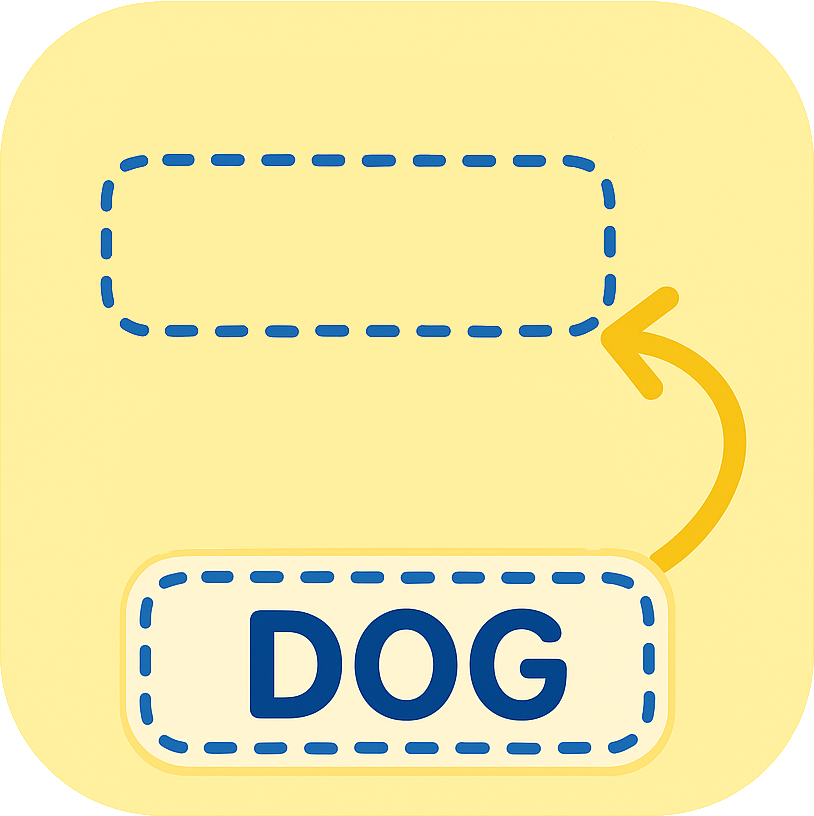
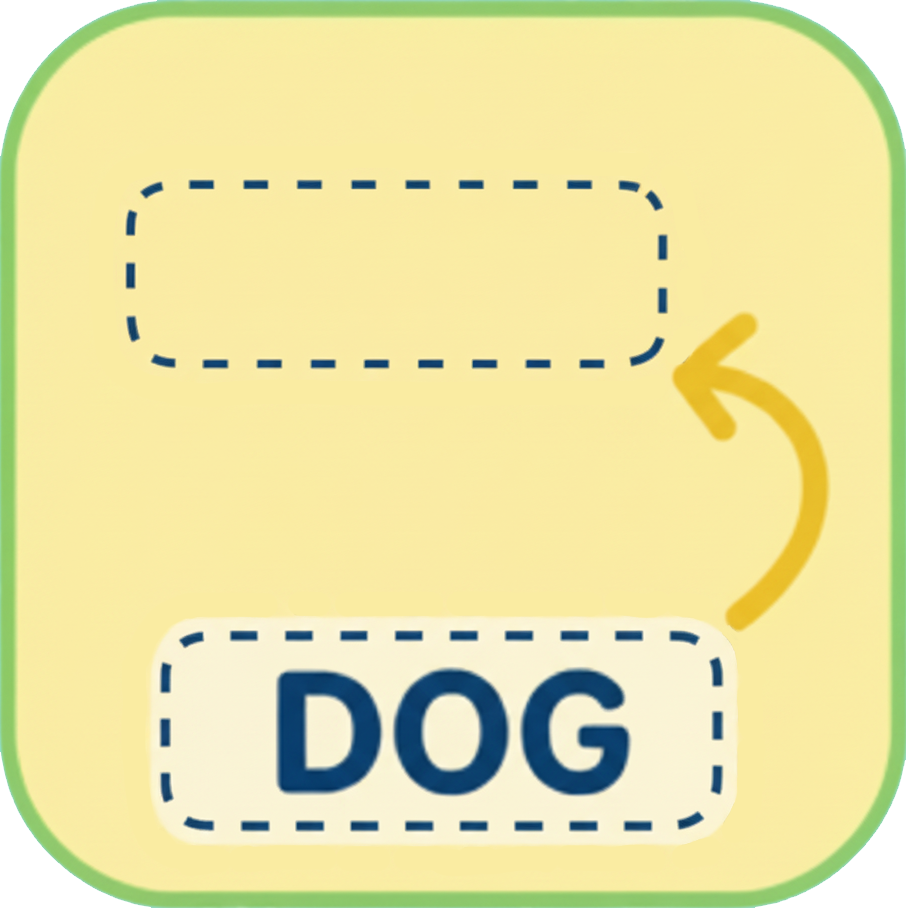
version 16 subida

Changed region(s): [[0.1229, 0.1838, 0.9214, 0.9498], [0.0, 0.0, 1.0, 1.0]]

diff --git a/boby/lib/ui/shared/score.dart b/boby/lib/ui/shared/score.dart
@@ -17,6 +17,23 @@ class Score extends StatelessWidget {
   });
 
 
+  getBadge(double correct, double wrong, bool isTablet, bool isLandscape) {
+    double average = (correct / (correct + wrong)) * 100;
+    String badge = "";
+    if (average >= 90) {
+      badge = "assets/dymond.png";
+    } else if (average >= 80) {
+      badge = "assets/gold.png";
+    } else if (average >= 50) {
+      badge = "assets/silver.png";
+    } else {
+      badge = "assets/bronze.png";
+    }
+    return Image.asset(badge, width: isTablet || isLandscape ? 40 : 30, height: isTablet || isLandscape ? 50 : 30);
+  
+  }
+
+
 
   String _getCorrectValue() {
     switch (game) {
@@ -60,14 +77,14 @@ class Score extends StatelessWidget {
     bool istablet = screenSize.width > Constants.tabletSize;  
 
     return GestureDetector(
-      onTap: () => _showRestoreDialog(context),
+      onTap: () => _showRestoreDialog(context, istablet, isLandscape),
       child: Container(
         width: screenSize.width * 0.8,
         margin: const EdgeInsets.all(8),
         padding: const EdgeInsets.all(8),
         decoration: BoxDecoration(
           color: Colors.white,
-          borderRadius: BorderRadius.circular(30),
+          borderRadius: BorderRadius.circular(15),
           boxShadow: [
             BoxShadow(
               color: Colors.black.withOpacity(0.1),
@@ -81,10 +98,16 @@ class Score extends StatelessWidget {
             mainAxisSize: MainAxisSize.min,
             mainAxisAlignment: MainAxisAlignment.center,
             children: [
+              getBadge(double.parse(_getCorrectValue()), double.parse(_getWrongValue()) , istablet, isLandscape),
+              const Spacer(),
               _buildScoreItem("Correct", _getCorrectValue(), MyColors.green, isLandscape, istablet),
               const SizedBox(width: 16),
               _buildScoreItem("Wrong", _getWrongValue(), MyColors.red, isLandscape, istablet),
               Text( appController.noShow.value, style: TextStyle(fontSize:1, ),),
+              const SizedBox(width: 16),
+              const Spacer(),
+              getBadge(double.parse(_getCorrectValue()), double.parse(_getWrongValue()), istablet, isLandscape),
+
             ],
           ),
         ),
@@ -115,7 +138,19 @@ class Score extends StatelessWidget {
     );
   }
 
-  void _showRestoreDialog(BuildContext context) {
+  void _showRestoreDialog(BuildContext context, bool istablet, bool isLandscape) {
+    double average = (double.parse(_getCorrectValue()) / (double.parse(_getCorrectValue()) + double.parse(_getWrongValue()))) * 100;
+String level = "";
+    if (average >= 90) {
+      level = "Diamond";
+    } else if (average >= 80) {
+      level = "Gold";
+    } else if (average >= 50) {
+      level = "Silver";
+    } else {
+      level = "Bronze";
+    }
+
     showDialog(
       context: context,
       builder: (context) => AlertDialog(
@@ -124,14 +159,30 @@ class Score extends StatelessWidget {
            "Restore Score",
           style: TextStyle(fontWeight: FontWeight.bold),
         ),
-        content: const Text('Are you sure you want to reset the score?'),
+        content: Column(
+          mainAxisSize: MainAxisSize.min,
+          children: [
+
+
+            Row(
+              children: [
+                const Text('Your level is ' , style: TextStyle(fontSize: 20),),
+                Text(level, style: TextStyle(fontSize: 20, fontWeight: FontWeight.bold),),
+                SizedBox(width: 5),
+                getBadge(double.parse(_getCorrectValue()), double.parse(_getWrongValue()) , istablet, isLandscape),
+              ],
+            ),
+            const SizedBox(height: 30),
+            const Text('Do you want to reset the score?' , style: TextStyle(fontSize: 20),),
+          ],
+        ),
         actions: [
           TextButton(
             onPressed: () => Navigator.of(context).pop(),
              style: TextButton.styleFrom(
               foregroundColor: Colors.blue,
             ),
-            child: const Text('Cancel'),
+            child: const Text('Cancel' , style: TextStyle(fontSize: 20),),
           ),
           TextButton(
             onPressed: () {
@@ -142,7 +193,7 @@ class Score extends StatelessWidget {
             style: TextButton.styleFrom(
               foregroundColor: Colors.red,
             ),
-            child: const Text('Reset'),
+            child: const Text('Reset' , style: TextStyle(fontSize: 20),),
           ),
         ],
       ),

diff --git a/boby/lib/ui/screens/complete_sentence/widgets/sentences.dart b/boby/lib/ui/screens/complete_sentence/widgets/sentences.dart
@@ -155,7 +155,7 @@ class Sentences {
   "answers": ["Slow", "Invisible", "Square", "Tall"]
 },
 {
-  "sentence": "A rainbow has many",
+  "sentence": "Rainbow has many",
   "answers": ["Colors", "Doors", "Fingers", "Cars"]
 },
 {
@@ -251,6 +251,86 @@ class Sentences {
 {
   "sentence": "The moon is in the",
   "answers": ["Sky", "Car", "Ground", "Chair"]
+},
+{
+  "sentence": "A lamp gives",
+  "answers": ["Light", "Water", "Milk", "Juice"]
+},
+{
+  "sentence": "A phone is for",
+  "answers": ["Calling", "Sleeping", "Painting", "Driving"]
+},
+{
+  "sentence": "The crab can",
+  "answers": ["Swim", "Fly", "Read", "Cook"]
+},
+{
+  "sentence": "The bear can",
+  "answers": ["Run", "Drive", "Sing opera", "Write books"]
+},
+{
+  "sentence": "A bear is a",
+  "answers": ["Mammal", "Reptile", "Vehicle", "Fruit"]
+},
+{
+  "sentence": "A shrimp is a",
+  "answers": ["Crustacean", "Mammal", "Bird", "Tool"]
+},
+{
+  "sentence": "A dog is a",
+  "answers": ["Mammal", "Plant", "Cloth", "Car"]
+},
+{
+  "sentence": "An iguana is a",
+  "answers": ["Reptile", "Fish", "Toy", "Fruit"]
+},
+{
+  "sentence": "A doctor helps",
+  "answers": ["People", "Cars", "Chairs", "Phones"]
+},
+{
+  "sentence": "The dolphin can",
+  "answers": ["Swim", "Drive", "Cook", "Plant flowers"]
+},
+{
+  "sentence": "A fish is a",
+  "answers": ["Animal", "Fruit", "Toy", "Color"]
+},
+{
+  "sentence": "The kangaroo can",
+  "answers": ["Jump", "Swim", "Type", "Drive"]
+},
+{
+  "sentence": "A lion lives in the",
+  "answers": ["Savanna", "Kitchen", "Sky", "Ocean"]
+},
+{
+  "sentence": "A jacket is for",
+  "answers": ["Wearing", "Drinking", "Drawing", "Flying"]
+},
+{
+  "sentence": "The truck is a",
+  "answers": ["Vehicle", "Fruit", "Animal", "Plant"]
+},
+{
+  "sentence": "The grass is",
+  "answers": ["Green", "Purple", "Black", "Silver"]
+},
+{
+  "sentence": "The penguin can",
+  "answers": ["Swim", "Drive", "Cook", "Climb trees"]
+},
+{
+  "sentence": "A tiger is a",
+  "answers": ["Carnivore", "Vegetable", "Robot", "Toy"]
+},
+{
+  "sentence": "The cheese is",
+  "answers": ["Food", "Car", "Animal", "Planet"]
+},
+{
+  "sentence": "A camera is for",
+  "answers": ["Taking photos", "Running", "Washing clothes", "Eating"]
 }
 
 

diff --git a/boby/lib/ui/screens/setting_screen/widgets/badge_setting.dart b/boby/lib/ui/screens/setting_screen/widgets/badge_setting.dart
@@ -1,0 +1,47 @@
+import 'package:flutter/material.dart';
+
+class BadgeSettings extends StatelessWidget {
+  const BadgeSettings({super.key});
+
+  @override
+  Widget build(BuildContext context) {
+
+    final TextStyle style = TextStyle(fontSize: 20, color: const Color.fromARGB(255, 47, 121, 250), fontWeight: FontWeight.bold);
+
+    final List<Map<String, String>>  data  = [
+      {"name": "Diamond", "image": "assets/dymond.png", "value": "90"},
+     {"name": "Gold", "image": "assets/gold.png", "value": "80"},
+      {"name": "Silver", "image": "assets/silver.png", "value": "50"},
+       {"name": "Bronze", "image": "assets/bronze.png", "value": "0"}, 
+       ];
+    return Column(
+      children: [
+        SizedBox(height: 10),
+        for (var element in data)  
+        Container(
+          margin: const EdgeInsets.symmetric(horizontal: 20, vertical: 5),
+          padding: const EdgeInsets.all(8),
+          decoration: BoxDecoration(
+            color: Colors.white,
+            borderRadius: BorderRadius.circular(15),
+            boxShadow: [
+              BoxShadow(
+                color: Colors.black.withOpacity(0.1),
+                blurRadius: 4,
+                offset: const Offset(0, 2),
+              ),
+            ],
+          ),
+          child: Row(
+            children: [
+              Image.asset(element["image"]!, width: 30, height: 30),
+              SizedBox(width: 10),
+              Text("Corrects answers: ", style: style),
+              Text(">= " + element["value"]! + "%", style: style), 
+            ],
+          ),
+        )
+      ],
+    );
+  }
+}

diff --git a/boby/lib/ui/screens/setting_screen/setting_sacreen.dart b/boby/lib/ui/screens/setting_screen/setting_sacreen.dart
@@ -1,5 +1,6 @@
 
 import 'package:boby/ui/screens/setting_screen/widgets/background_settins.dart';
+import 'package:boby/ui/screens/setting_screen/widgets/badge_setting.dart';
 import 'package:boby/ui/screens/setting_screen/widgets/match_it.sattings.dart';
 import 'package:boby/ui/screens/setting_screen/widgets/math_settings.dart';
 import 'package:boby/ui/screens/setting_screen/widgets/memory_settings.dart';
@@ -22,9 +23,9 @@ class SettingScreen extends StatelessWidget {
           SizedBox(height: 50),
           WordOfImages(letters: "BACKGROUNDS", letterSize: 25),
           BackgroundSettings(),
-          SizedBox(height: 100),
-          WordOfImages(letters: "MATH", letterSize: 25),
-          MathSettings(),
+          //SizedBox(height: 100),
+          //WordOfImages(letters: "MATH", letterSize: 25),
+          //MathSettings(),
           SizedBox(height: 100),
           WordOfImages(letters: "MEMORY", letterSize: 25), 
           MemrySettings(),
@@ -32,9 +33,13 @@ class SettingScreen extends StatelessWidget {
           WordOfImages(letters: "MATCH", letterSize: 25),
           MatchItSettings(),
           SizedBox(height: 100),
+          WordOfImages(letters: "BADGE", letterSize: 25),
+          BadgeSettings(),
+          SizedBox(height: 100),
           WordOfImages(letters: "MORE", letterSize: 25),
           MoreApps(),
           SizedBox(height: 100),
+          
         ],
       ),
     );

diff --git a/boby/lib/ui/screens/complete_sentence/complete_sentence.dart b/boby/lib/ui/screens/complete_sentence/complete_sentence.dart
@@ -20,7 +20,7 @@ class _CompleteSentenceState extends State<CompleteSentence> {
   final AppController appController = Get.find<AppController>();
   int currentQuestionIndex = 0;
   bool showCorrect = false;
-  List<int> usedQuestionIndices = [];
+  List<int> usedQuestionIndices = [0];
   Set<int> selectedAnswerIndices = {};
   int? selectedAnswerIndex;
   bool isCorrect = false;
@@ -149,7 +149,7 @@ class _CompleteSentenceState extends State<CompleteSentence> {
                   ],
                 ),
                 child: Text(
-                  "$sentence _____",
+                  "$sentence ____",
                   style: const TextStyle(
                     fontSize: 24,
                     fontWeight: FontWeight.bold,
